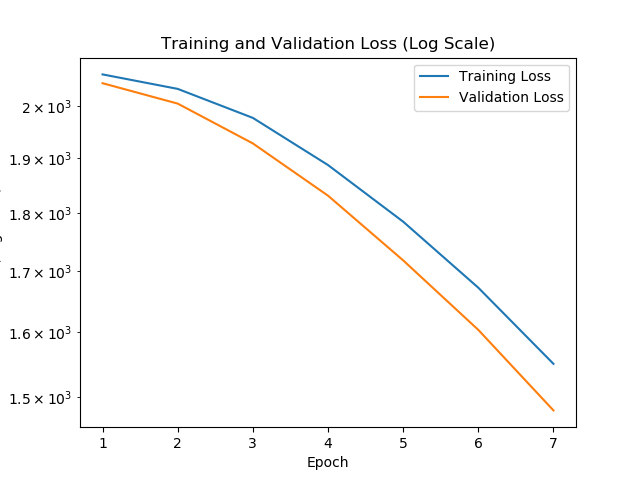
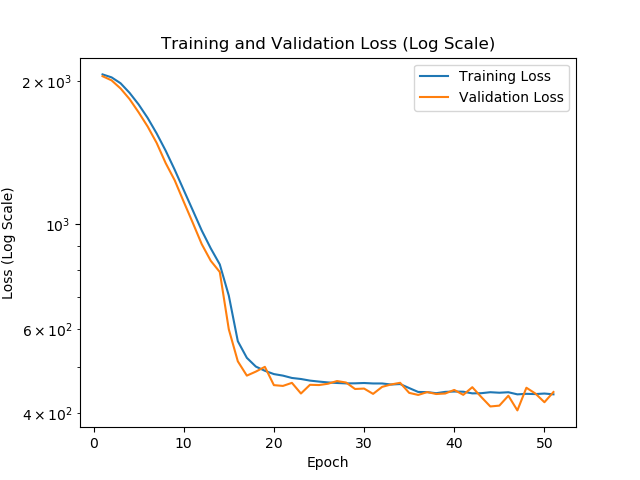
Implemented LSTM for GNN. Training(v11) without self loop. Self-looop (using linear) implemented in model. Waiting for training to finish.

diff --git a/gcn/model copy.py b/gcn/model copy.py
@@ -1,0 +1,113 @@
+import torch
+import torch.nn.functional as F
+import torch.nn as nn
+from torch_geometric.nn import GATConv, global_add_pool, to_hetero
+from torch_geometric.nn import GraphConv  # For comparison
+
+class GNN(nn.Module):
+    def __init__(self, num_features, hidden_channels, num_heads=8, concat=True):
+        super(GNN, self).__init__()
+        self.concat = concat
+        self.num_heads = num_heads
+        self.hidden_channels = hidden_channels
+        out_channels = hidden_channels * num_heads if concat else hidden_channels
+        
+        self.conv1 = GATConv(num_features, hidden_channels, heads=num_heads, concat=concat, add_self_loops=False)
+        self.conv2 = GATConv(out_channels, hidden_channels, heads=num_heads, concat=concat, add_self_loops=False)
+        self.conv3 = GATConv(out_channels, hidden_channels, heads=num_heads, concat=concat, add_self_loops=False)
+        self.conv4 = GATConv(out_channels, hidden_channels, heads=num_heads, concat=concat, add_self_loops=False)
+        self.conv5 = GATConv(out_channels, hidden_channels, heads=num_heads, concat=concat, add_self_loops=False)
+
+    def forward(self, x, edge_index):
+        x1 = self.conv1(x, edge_index).relu()
+        x2 = self.conv2(x1, edge_index).relu() + x1  # Residual connection
+        x3 = self.conv3(x2, edge_index).relu() + x2  # Residual connection
+        x4 = self.conv4(x3, edge_index).relu() + x3  # Residual connection
+        x5 = self.conv5(x4, edge_index) + x4  # Residual connection
+        return x5
+
+class LatencyModel(nn.Module):
+    def __init__(self, num_features, hidden_channels, metadata, aggr='sum', num_heads=8, concat=True):
+        super(LatencyModel, self).__init__()
+        gnn = GNN(num_features, hidden_channels, num_heads, concat)
+        self.hetero_gnn = to_hetero(gnn, metadata, aggr=aggr)
+        
+        out_channels = hidden_channels * num_heads if concat else hidden_channels
+        
+        self.lin1 = nn.Linear(out_channels, 128)
+        # self.bn1 = nn.BatchNorm1d(128)
+        self.dropout1 = nn.Dropout(p=0.5)
+        
+        self.lin2 = nn.Linear(128, 32)
+        # self.bn2 = nn.BatchNorm1d(32)
+        self.dropout2 = nn.Dropout(p=0.5)
+        
+        self.lin3 = nn.Linear(32, 1)
+
+    def forward(self, x_dict, edge_index_dict, batch_dict):
+        gnn_output = self.hetero_gnn(x_dict, edge_index_dict)
+        x = global_add_pool(gnn_output['link'], batch_dict)
+        
+        x = F.leaky_relu(self.lin1(x))
+        x = self.dropout1(x)
+        
+        x = F.leaky_relu(self.lin2(x))
+        x = self.dropout2(x)
+        
+        x = self.lin3(x)
+        return x
+
+
+
+if __name__ == "__main__":
+
+    # Loading the dataset
+    from .dataset import load_data
+    import torch_geometric.transforms as T
+
+    FEATURES = 1
+    BATCH_SIZE = 2
+    HIDDEN_CHANNELS = 100
+
+    data_loader, _ = load_data(
+        'training_data/data/task_from_graph_dag_over_network_directed_hetero_train', batch_size=BATCH_SIZE)
+
+    for i, data in enumerate(data_loader):
+        print(
+            f"\n\t\t\t\t\t--------Batch {i} has {len(data)} data points--------\n")
+
+        undirected_data = T.ToUndirected()(data)
+
+        print(f"Batch is {undirected_data.batch_dict['link']}")
+
+        # """Homogenous"""
+        # print(f"---- Homogenous Output ----\n ")
+        # homogenous_data = undirected_data.to_homogeneous()
+        # print(
+        #     f"\nData is {homogenous_data}"
+        #     f" with num of feature {homogenous_data.num_features}")
+
+        # model = GNN(num_features=FEATURES, hidden_channels=HIDDEN_CHANNELS)
+        # output = model(homogenous_data.x, homogenous_data.edge_index)
+
+        # print(f"\nModel is {model}")
+        # print(f"Output shape is {output.shape}")
+
+        """Heterogenous"""
+        print(f"\n")
+        # metadata -> [[node_types], [edge_types]
+        metadata = undirected_data.metadata()
+        # model_hetero = to_hetero(model, metadata)
+        model_hetero = LatencyModel(
+            num_features=FEATURES, hidden_channels=HIDDEN_CHANNELS, metadata=metadata, aggr='sum')
+
+        output_hetero = model_hetero(
+            undirected_data.x_dict, undirected_data.edge_index_dict, undirected_data.batch_dict['link'])
+
+        print(f"Output is {output_hetero} w/ shape is {output_hetero.shape}")
+
+        # print(f"---- Hetero Output ----\n ")
+        # for key, value in output_hetero.items():
+        #     print(f"{key} is {value.shape}")
+
+        break

diff --git a/gcn/results/dag_over_network/v11/model.py b/gcn/results/dag_over_network/v11/model.py
@@ -18,22 +18,17 @@ class GNN(nn.Module):
     def __init__(self, num_features, hidden_channels):
         super(GNN, self).__init__()
         self.conv1 = GraphConv(num_features, hidden_channels)
-        self.lin1 = nn.Linear(num_features, hidden_channels)
-
         self.conv2 = GraphConv(hidden_channels, hidden_channels)
-        self.lin2 = nn.Linear(hidden_channels, hidden_channels)
-
         self.conv3 = GraphConv(hidden_channels, hidden_channels)
-        self.lin3 = nn.Linear(hidden_channels, hidden_channels)
+        # self.conv4 = GraphConv(hidden_channels, hidden_channels)
+        # self.conv5 = GraphConv(hidden_channels, hidden_channels)
 
     def forward(self, x, edge_index):
-        x1 = self.conv1(x, edge_index) + self.lin1(x) 
-        x1 = x1.relu()
-
-        x2 = self.conv2(x1, edge_index) + self.lin2(x1)
-        x2 = x2.relu()
-
-        x3 = self.conv3(x2, edge_index) + self.lin3(x2)
+        x1 = self.conv1(x, edge_index).relu()
+        x2 = self.conv2(x1, edge_index).relu() + x1
+        x3 = self.conv3(x2, edge_index)
+        # x4 = self.conv4(x3, edge_index).relu() + x3
+        # x5 = self.conv5(x4, edge_index) + x4
         return x3
 
 

diff --git a/gcn/train.py b/gcn/train.py
@@ -37,7 +37,7 @@ MODEL_PATH = "gcn/results/"
 
 torch.manual_seed(1)
 
-SAVE_RESULTS = "gcn/results/dag_over_network/v10"
+SAVE_RESULTS = "gcn/results/dag_over_network/v11"
 
 if not os.path.exists(SAVE_RESULTS):
     os.makedirs(SAVE_RESULTS)
@@ -59,7 +59,7 @@ def train_fn(train_loader, model, optimizer, loss_fn):
     mean_loss = []
     for batch_idx, data in enumerate(loop):
         data = data.to(DEVICE)
-        output = model(data.x_dict, data.edge_index_dict, data.batch_dict['link']).squeeze(1)
+        output = model(data.x_dict, data.edge_index_dict, data.batch_dict).squeeze(1)
         loss = loss_fn(output, data.y)
 
         optimizer.zero_grad()
@@ -79,7 +79,7 @@ def validation_fn(test_loader, model, loss_fn, epoch):
         data = data.to(DEVICE)
         x = data.x_dict
         edge_index = data.edge_index_dict
-        batch = data.batch_dict['link']
+        batch = data.batch_dict
         output = model(x, edge_index, batch).squeeze(1)
         loss = loss_fn(output, data.y)
         mean_loss.append(loss.item())
